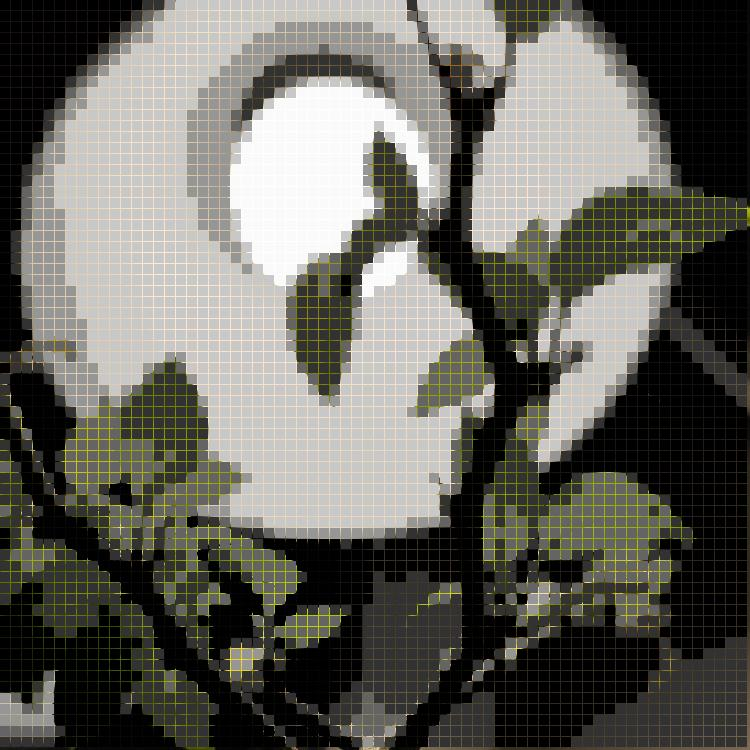
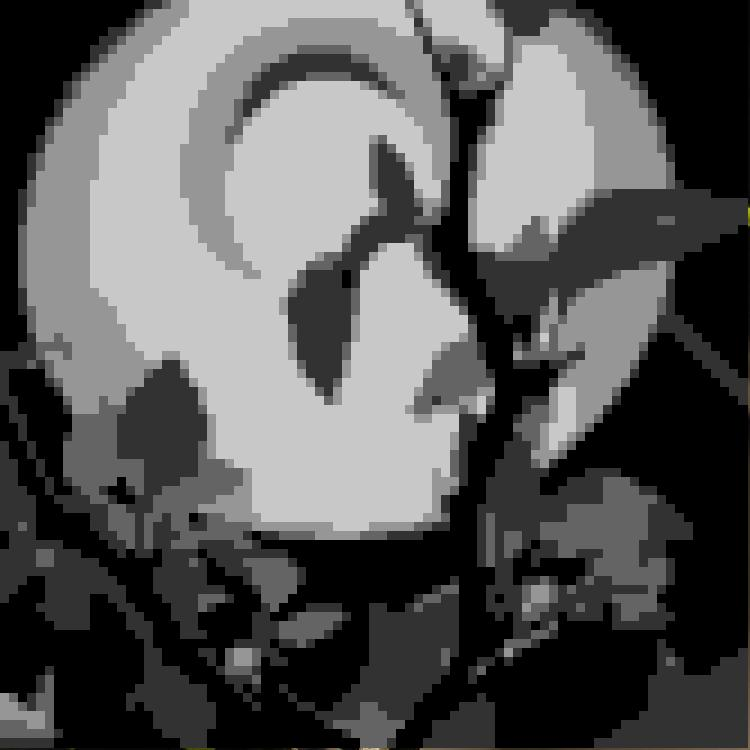
2 этап.
1. Исправлены имена переменных.
2. Добавлена возможность управлять размерами мозаики.
3. Добавлена возможность управлять градациями серого цвета.
4. Выделены функции.
5. Исправлены линии на изображении (появились в прошлом коммите).

diff --git a/filter.py b/filter.py
@@ -1,28 +1,38 @@
 from PIL import Image
 import numpy as np
 img = Image.open("img2.jpg")
-arr = np.array(img)
-a = len(arr)
-a1 = len(arr[1])
-i = 0
-while i < a - 11:
-    j = 0
-    while j < a1 - 11:
-        s = 0
-        for n in range(i, i + 10):
-            for n1 in range(j, j + 10):
-                newVar = arr[n][n1][0] // 3
-                n2 = arr[n][n1][1] // 3
-                n3 = arr[n][n1][2] // 3
-                M = int(newVar) + int(n2) + int(n3)
-                s += M
-        s = int(s // 100)
-        for n in range(i, i + 10):
-            for n1 in range(j, j + 10):
-                arr[n][n1][0] = int(s // 50) * 50
-                arr[n][n1][1] = int(s // 50) * 50
-                arr[n][n1][2] = int(s // 50) * 50
-        j = j + 11
-    i = i + 11
-res = Image.fromarray(arr)
+imgArray = np.array(img)
+imgArrayLen = len(imgArray)
+innerArrayLen = len(imgArray[1])
+arrCounter = 0
+size = int(input('Введите размер мозаики: '))
+step = int(input('Введите количество градаций серого цвета: '))
+
+def CountTotalSum(innerArrCounter, arrCounter):
+    totalSum = 0
+    for ac in range(arrCounter, arrCounter + size):
+        for iac in range(innerArrCounter, innerArrCounter + size):
+            firstElem = imgArray[ac][iac][0] // 3
+            secondElem = imgArray[ac][iac][1] // 3
+            thirdElem = imgArray[ac][iac][2] // 3
+            elemSum = int(firstElem) + int(secondElem) + int(thirdElem)
+            totalSum += elemSum
+    return int(totalSum // 100)
+
+def CreatePixels(innerArrCounter, arrCounter, totalSum):
+    for ac in range(arrCounter, arrCounter + size):
+        for iac in range(innerArrCounter, innerArrCounter + size):
+            imgArray[ac][iac][0] = int(totalSum // step) * step
+            imgArray[ac][iac][1] = int(totalSum // step) * step
+            imgArray[ac][iac][2] = int(totalSum // step) * step
+
+while arrCounter < imgArrayLen - (size + 1):
+    innerArrCounter = 0
+    while innerArrCounter < innerArrayLen - (size + 1):
+        totalSum = CountTotalSum(innerArrCounter, arrCounter)
+        CreatePixels(innerArrCounter, arrCounter, totalSum)
+        innerArrCounter = innerArrCounter + size - 1
+    arrCounter = arrCounter + size - 1
+res = Image.fromarray(imgArray)
 res.save('res.jpg')
+
